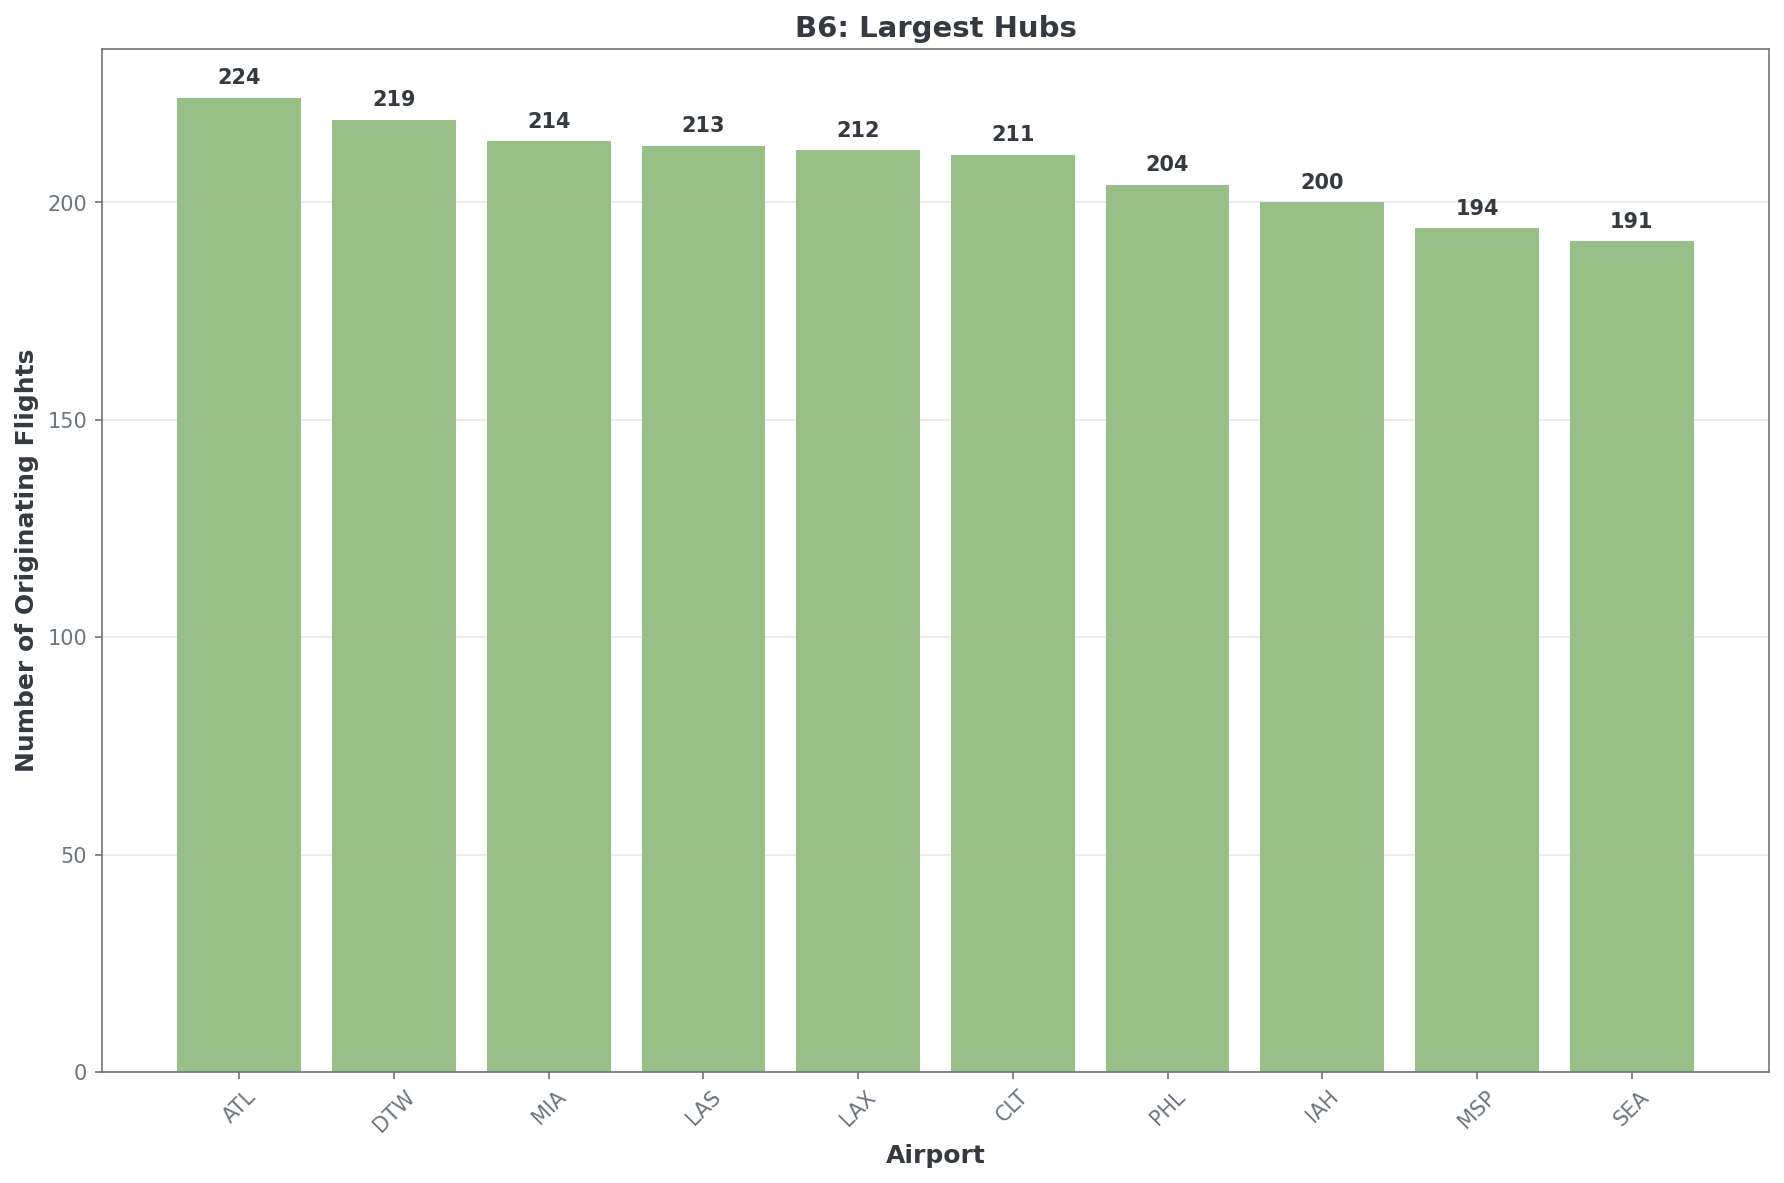
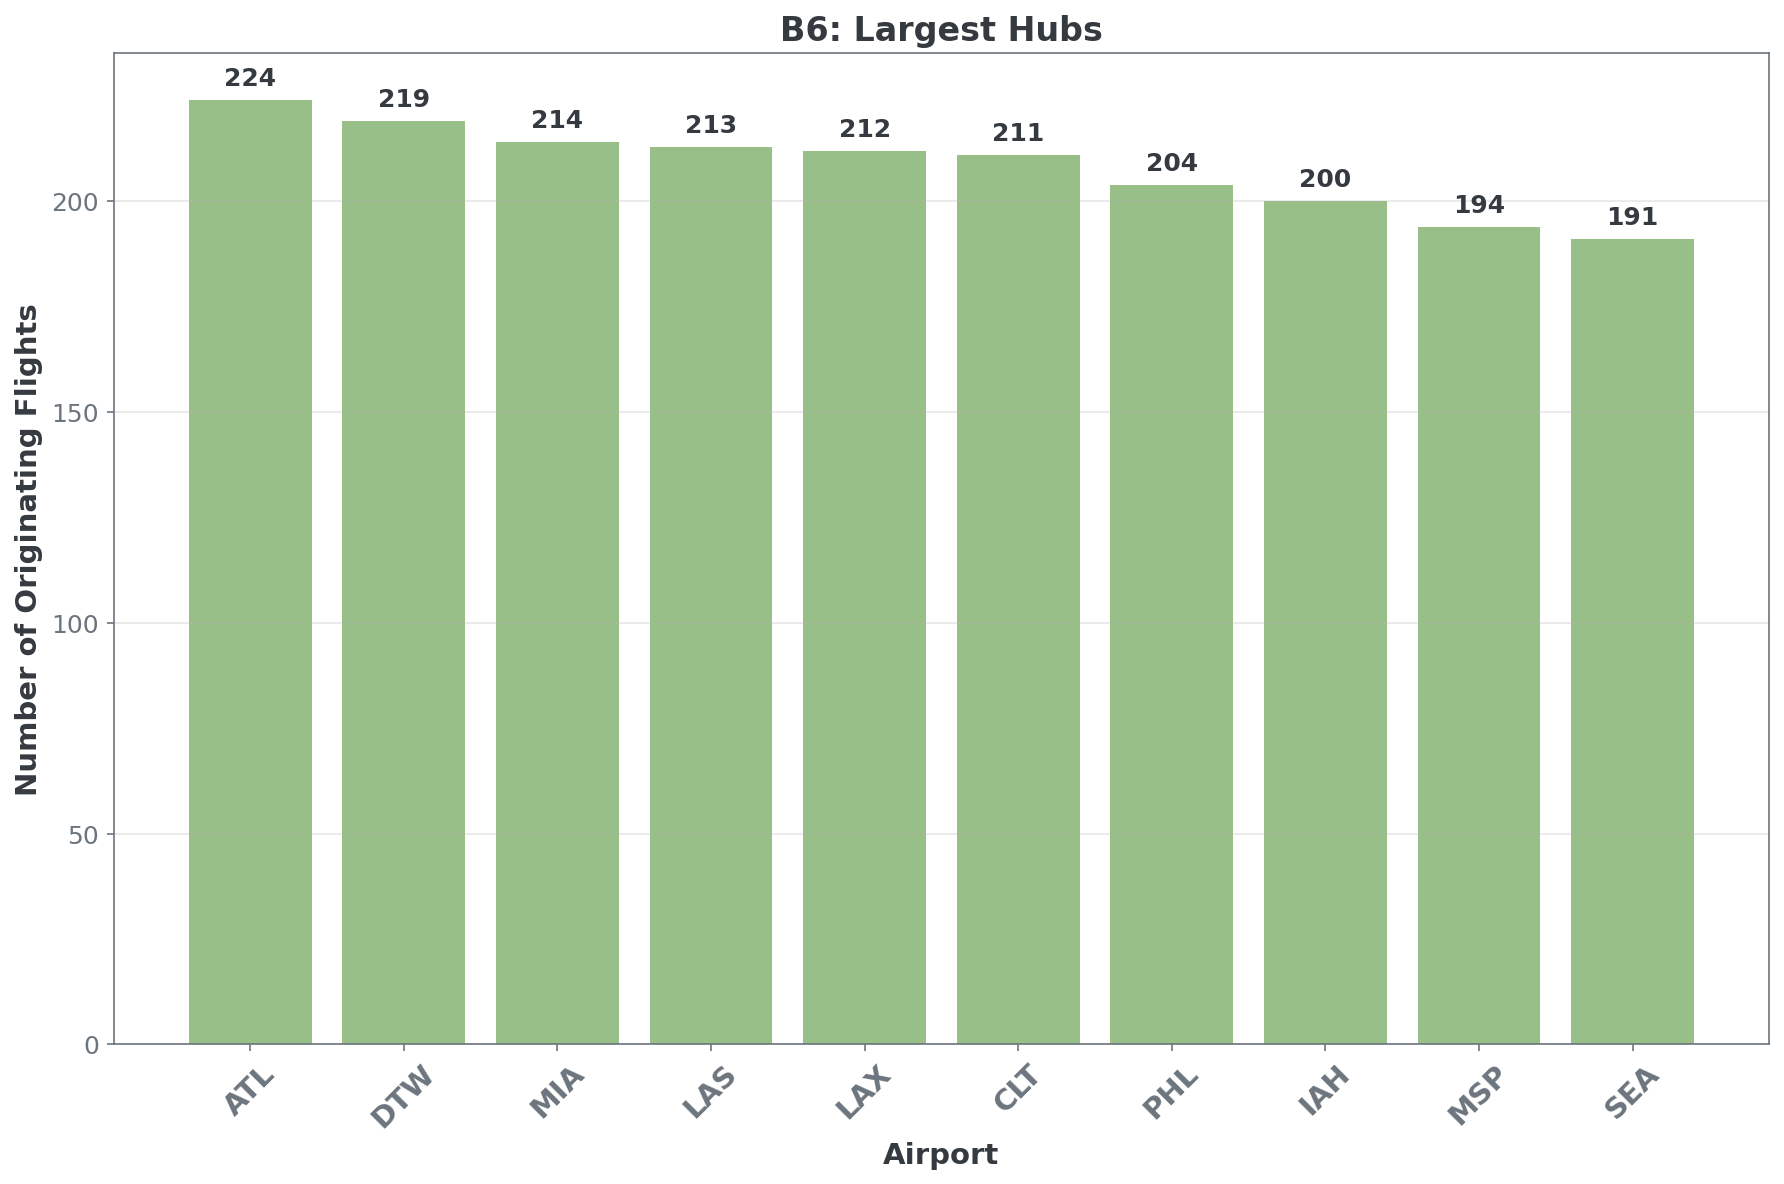
Bigger text

diff --git a/index.html b/index.html
@@ -17,6 +17,45 @@
         </header>
 
         <main>
+            <!-- Airline Key Section -->
+            <section class="airline-key-section">
+                <h2>Airline Reference</h2>
+                <div class="airline-key-grid">
+                    <div class="key-item">
+                        <span class="airline-code">AA</span>
+                        <span class="airline-name">American Airlines</span>
+                    </div>
+                    <div class="key-item">
+                        <span class="airline-code">UA</span>
+                        <span class="airline-name">United Airlines</span>
+                    </div>
+                    <div class="key-item">
+                        <span class="airline-code">DL</span>
+                        <span class="airline-name">Delta Air Lines</span>
+                    </div>
+                    <div class="key-item">
+                        <span class="airline-code">WN</span>
+                        <span class="airline-name">Southwest Airlines</span>
+                    </div>
+                    <div class="key-item">
+                        <span class="airline-code">B6</span>
+                        <span class="airline-name">JetBlue Airways</span>
+                    </div>
+                    <div class="key-item">
+                        <span class="airline-code">AS</span>
+                        <span class="airline-name">Alaska Airlines</span>
+                    </div>
+                    <div class="key-item">
+                        <span class="airline-code">NK</span>
+                        <span class="airline-name">Spirit Airlines</span>
+                    </div>
+                    <div class="key-item">
+                        <span class="airline-code">F9</span>
+                        <span class="airline-name">Frontier Airlines</span>
+                    </div>
+                </div>
+            </section>
+
             <!-- Overall Performance Section -->
             <section class="overview-section">
                 <h2>Overall Airline Performance</h2>

diff --git a/style.css b/style.css
@@ -76,6 +76,54 @@ h2::after {
     background: #e74c3c;
 }
 
+/* Airline Key Section */
+.airline-key-section {
+    background: linear-gradient(135deg, #f8f9fa, #ffffff);
+    margin-bottom: 40px;
+    border-left: 5px solid #f39c12;
+}
+
+.airline-key-grid {
+    display: grid;
+    grid-template-columns: repeat(auto-fit, minmax(250px, 1fr));
+    gap: 15px;
+    margin-top: 20px;
+}
+
+.key-item {
+    display: flex;
+    align-items: center;
+    padding: 15px 20px;
+    background: white;
+    border-radius: 8px;
+    border: 1px solid #e9ecef;
+    transition: all 0.3s ease;
+}
+
+.key-item:hover {
+    transform: translateY(-2px);
+    box-shadow: 0 4px 12px rgba(52, 152, 219, 0.15);
+    border-color: #3498db;
+}
+
+.airline-code {
+    background: #3498db;
+    color: white;
+    padding: 8px 12px;
+    border-radius: 6px;
+    font-weight: bold;
+    font-size: 1rem;
+    min-width: 40px;
+    text-align: center;
+    margin-right: 15px;
+}
+
+.airline-name {
+    font-weight: 500;
+    color: #2c3e50;
+    font-size: 1rem;
+}
+
 h3 {
     font-size: 1.4rem;
     font-weight: 600;

diff --git a/analysis.py b/analysis.py
@@ -154,14 +154,20 @@ class FlightAnalysis:
                                          labels=airline_stats.index,
                                          autopct='%1.1f%%',
                                          colors=colors,
-                                         startangle=90)
+                                         startangle=90,
+                                         textprops={'fontsize': 14, 'fontweight': 'bold'})
         
-        ax.set_title('Number of Flights by Airline', fontsize=14, fontweight='bold', pad=20)
+        ax.set_title('Number of Flights by Airline', fontsize=16, fontweight='bold', pad=20)
         
-        # Enhance text
+        # Enhance text with larger fonts
+        for text in texts:
+            text.set_fontsize(16)
+            text.set_fontweight('bold')
+            
         for autotext in autotexts:
             autotext.set_color('white')
             autotext.set_fontweight('bold')
+            autotext.set_fontsize(14)
         
         plt.tight_layout()
         plt.savefig('assets/flights_by_airline.png', dpi=150, bbox_inches='tight', facecolor='white')
@@ -224,16 +230,19 @@ class FlightAnalysis:
             bars = ax.bar(range(len(hub_counts)), hub_counts.values, 
                          color='#7fb069', alpha=0.8)
             ax.set_xticks(range(len(hub_counts)))
-            ax.set_xticklabels(hub_counts.index, rotation=45)
-            ax.set_ylabel('Number of Originating Flights', fontsize=12, fontweight='bold')
-            ax.set_xlabel('Airport', fontsize=12, fontweight='bold')
-            ax.set_title(f'{airline}: Largest Hubs', fontsize=14, fontweight='bold')
+            ax.set_xticklabels(hub_counts.index, rotation=45, fontsize=14, fontweight='bold')
+            ax.set_ylabel('Number of Originating Flights', fontsize=14, fontweight='bold')
+            ax.set_xlabel('Airport', fontsize=14, fontweight='bold')
+            ax.set_title(f'{airline}: Largest Hubs', fontsize=16, fontweight='bold')
             ax.grid(axis='y', alpha=0.3)
+            
+            # Make y-axis labels larger
+            ax.tick_params(axis='y', labelsize=12)
             
             for i, bar in enumerate(bars):
                 height = bar.get_height()
                 ax.text(bar.get_x() + bar.get_width()/2, height + max(hub_counts.values) * 0.01,
-                       f'{int(height)}', ha='center', va='bottom', fontweight='bold')
+                       f'{int(height)}', ha='center', va='bottom', fontweight='bold', fontsize=12)
             
             plt.tight_layout()
             plt.savefig(f'assets/{airline}_hubs.png', dpi=150, bbox_inches='tight', facecolor='white')
@@ -268,16 +277,20 @@ class FlightAnalysis:
             bars = ax.bar(range(len(origin_delays_best)), origin_delays_best.values, 
                          color='#27ae60', alpha=0.8)
             ax.set_xticks(range(len(origin_delays_best)))
-            ax.set_xticklabels(origin_delays_best.index, rotation=45)
-            ax.set_ylabel('Average Delay (minutes)', fontsize=12, fontweight='bold')
-            ax.set_xlabel('Origin Airport', fontsize=12, fontweight='bold')
-            ax.set_title(f'{airline}: Best Performing Origins', fontsize=14, fontweight='bold')
+            ax.set_xticklabels(origin_delays_best.index, rotation=45, fontsize=14, fontweight='bold')
+            ax.set_ylabel('Average Delay (minutes)', fontsize=14, fontweight='bold')
+            ax.set_xlabel('Origin Airport', fontsize=14, fontweight='bold')
+            ax.set_title(f'{airline}: Best Performing Origins', fontsize=16, fontweight='bold')
             ax.grid(axis='y', alpha=0.3)
+            
+            # Make y-axis labels larger
+            ax.tick_params(axis='y', labelsize=12)
             
             for i, bar in enumerate(bars):
                 height = bar.get_height()
                 ax.text(bar.get_x() + bar.get_width()/2, height + abs(min(origin_delays_best.values)) * 0.1,
-                       f'{height:.1f}', ha='center', va='bottom' if height >= 0 else 'top', fontweight='bold')
+                       f'{height:.1f}', ha='center', va='bottom' if height >= 0 else 'top', 
+                       fontweight='bold', fontsize=12)
             
             plt.tight_layout()
             plt.savefig(f'assets/{airline}_best_origins.png', dpi=150, bbox_inches='tight', facecolor='white')
